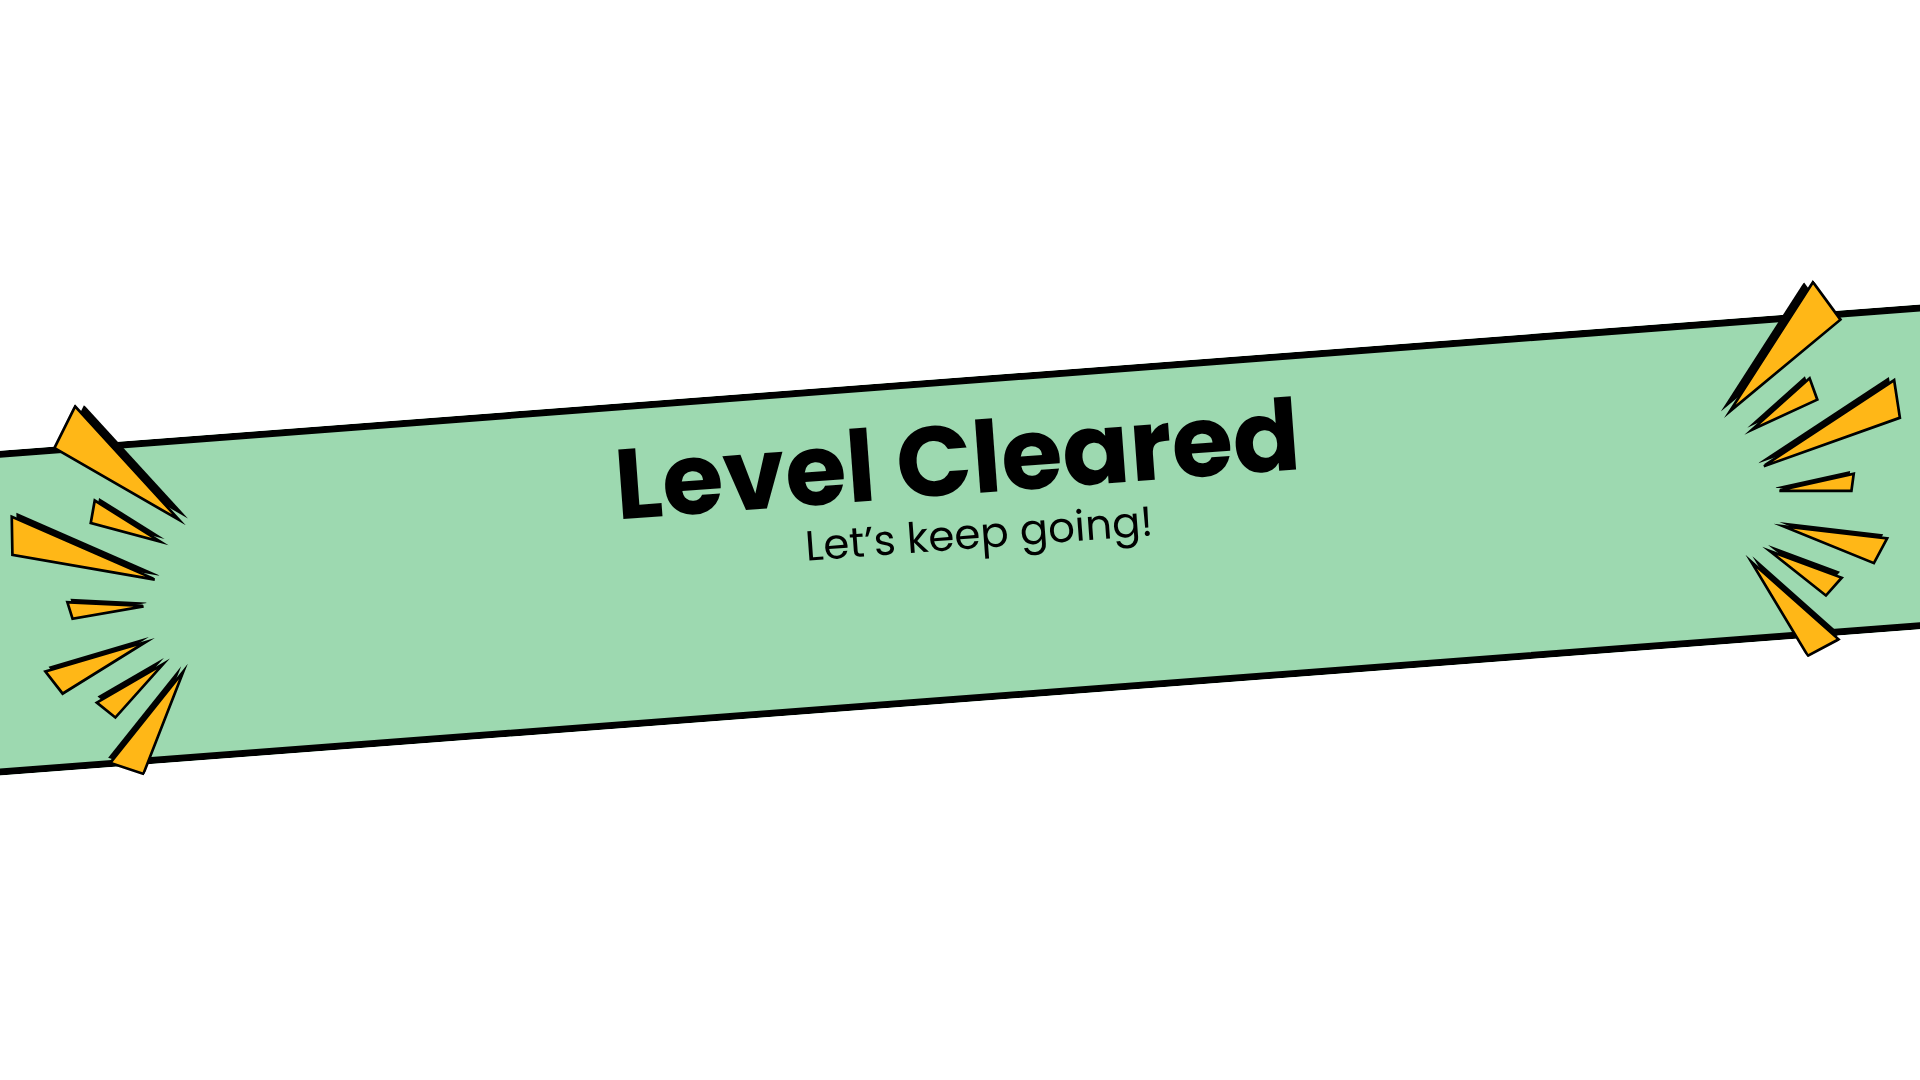
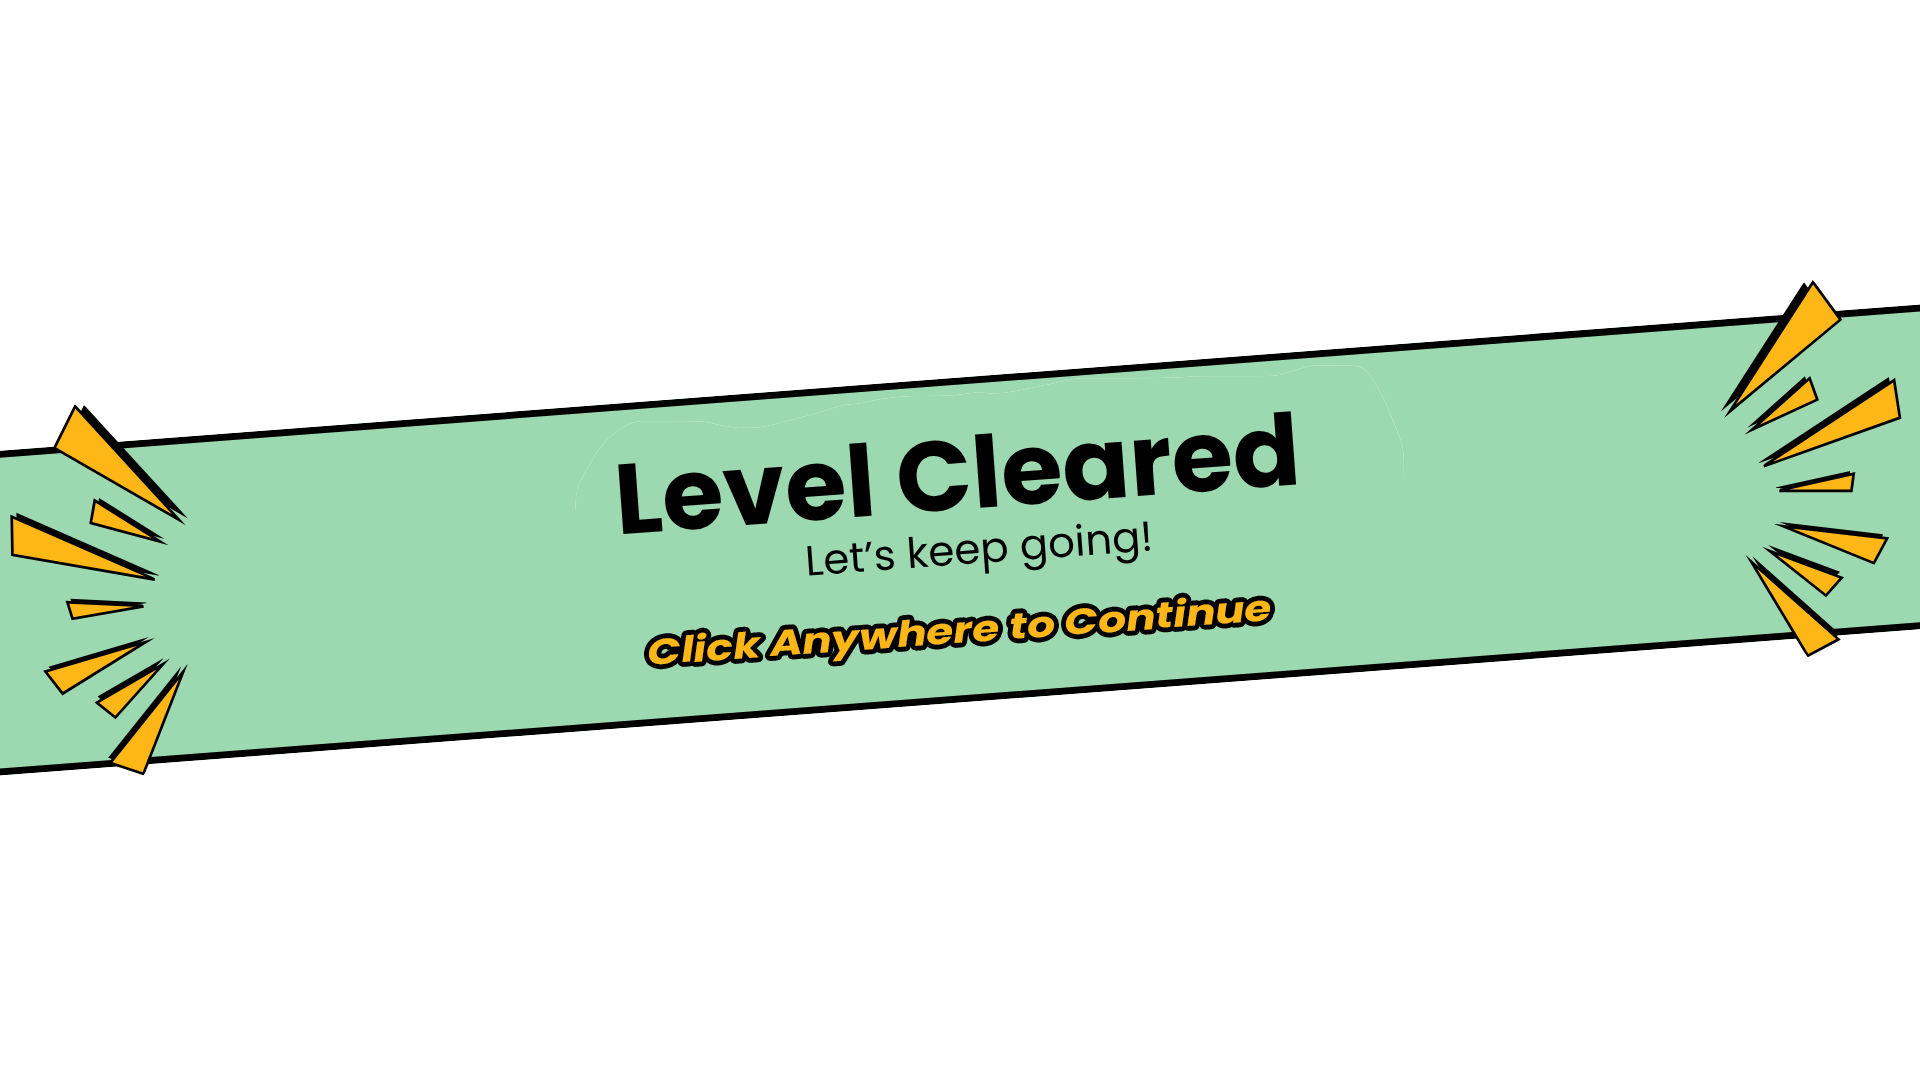
Updated level sting and gameover screen

Changed region(s): [[0.3125, 0.3667, 0.6875, 0.55], [0.3125, 0.55, 0.6875, 0.6417], [0.3125, 0.3972, 0.3438, 0.4278]]

diff --git a/src/gameplay/gameplay.js b/src/gameplay/gameplay.js
@@ -48,6 +48,7 @@ export class Gameplay {
 
         this.viewingFeedback    = false;
         this.viewingSting       = false;
+        this.viewingGameover    = false;
         this.answerCorrect      = false;
     }
     changeScale(scale){
@@ -94,6 +95,7 @@ export class Gameplay {
             this.question = score.score + 1;
         }
         if (this.level > MAX_LEVELS) {
+            this.viewingGameover = true;
             this.level = 1;
             this.question = 1;
         }
@@ -125,7 +127,14 @@ export class Gameplay {
                 this.nextQuestion();
             }
         } 
-        else 
+        else if(this.viewingGameover)
+        {
+            if(command === Command.MOUSE_DOWN)
+            {
+                this.viewingGameover = false;
+            }
+        }
+        else
         {
             this.handleLevelSwap(this.level);
             this.progressWindow.update(this.question, this.level);
@@ -162,6 +171,10 @@ export class Gameplay {
         }
         if(this.viewingFeedback){ this.scene.drawFeedback(this.answerCorrect, ctx); }
         this.levelSting.draw(ctx);
+
+        if(this.viewingGameover){
+            this.scene.drawGameover(ctx);
+        }
     }
 
     nextQuestion(){
@@ -177,6 +190,7 @@ export class Gameplay {
                 this.levelSting.play();
                 this.viewingSting = true;
             } else {
+                this.viewingGameover = true;
                 this.level = 1;
                 this.score.questions++;
                 this.question = 1;
@@ -370,9 +384,7 @@ export class Gameplay {
                 case Language.IRISH: console.log("Setting Language: IRISH");
                 break;
             }
-
             this.language = language;
-
         }
     }
 }

diff --git a/src/gameplay/elements/scene.js b/src/gameplay/elements/scene.js
@@ -12,6 +12,7 @@ export class Scene{
         this.boy = null;
         this.girl = null;
         this.menu = null;
+        this.gameover = null;
 
         this.posFeedback1 = null;
         this.posFeedback2 = null;
@@ -74,11 +75,24 @@ export class Scene{
             this.coupon.fontSize = this.coupon.initial.fontSize * this.scale;
             this.coupon.linespace = this.coupon.initial.linespace * this.scale;
         }
+
+        if(this.gameover){
+            this.gameover.size = {x: this.gameover.initial.size.x * this.scale, y: this.gameover.initial.size.y * this.scale};
+            this.gameover.pos = {x: this.gameover.initial.pos.x * this.scale, y: this.gameover.initial.pos.y * this.scale};
+        }
     }
 
     init(assets){
-        let SIZE = {x: 1280, y: 720};
+        let SIZE = GAME_SIZE;
         let POS = {x: 0, y: 0};
+        this.gameover = {
+            texture: assets.getAsset('gameover'),
+            size: {...SIZE},
+            pos: {...POS}, 
+            initial: { size: {...SIZE}, pos: {...POS} }
+        }
+        SIZE = {x: 1280, y: 720};
+        POS = {x: 0, y: 0};
         this.bg = {
             texture: assets.getAsset('background'),
             size: {...SIZE},
@@ -284,6 +298,10 @@ export class Scene{
         ctx.font = `${this.coupon.fontSize}px ${'PoppinsBold'}`;
         ctx.fillText(this.coupon.line1, this.coupon.center.x, this.coupon.center.y - this.coupon.linespace);
         ctx.fillText(this.coupon.line2, this.coupon.center.x, this.coupon.center.y + this.coupon.linespace);
+    }
+
+    drawGameover(ctx){
+        ctx.drawImage(this.gameover.texture, this.gameover.pos.x, this.gameover.pos.y, this.gameover.size.x, this.gameover.size.y);
     }
 
 }

diff --git a/src/handlers/asset_handler.js b/src/handlers/asset_handler.js
@@ -93,5 +93,6 @@ export class AssetHandler{
         this.addAsset('coupon', this.assetUrl('coupon.png'));
         this.addAsset('startMenu', this.assetUrl('startMenu.png'));
         this.addAsset('levelSting', this.assetUrl('levelSting.png'));
+        this.addAsset('gameover', this.assetUrl('gameover.png'));
     }
 }

diff --git a/src/gameplay/elements/main_menu.js b/src/gameplay/elements/main_menu.js
@@ -22,7 +22,6 @@ export class MainMenu{
         if(this.hardButton){this.hardButton.changeScale(this.scale);}
         if(this.inEnglish){this.inEnglish.changeScale(this.scale);}
         if(this.inIrish){this.inIrish.changeScale(this.scale);}
-
     }
 
     init(assets){
